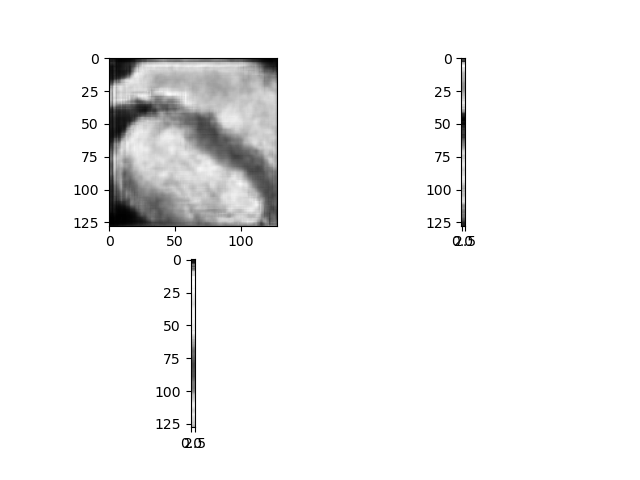
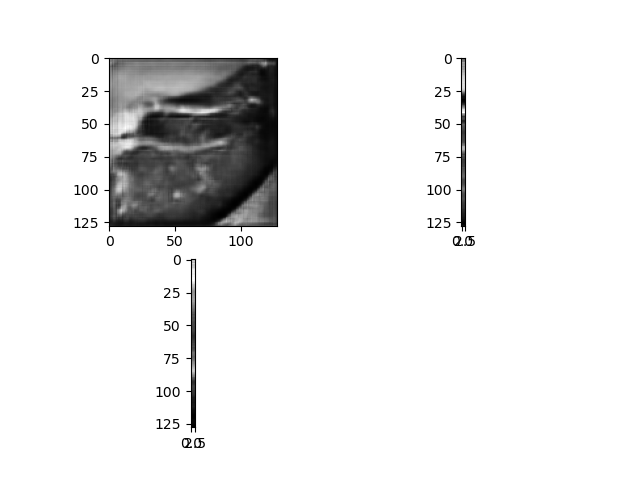
Add option for segmentor to learm from syn data- Bug Fixes

diff --git a/models/cycle_gan_model.py b/models/cycle_gan_model.py
@@ -226,7 +226,7 @@ class CycleGANModel(BaseModel):
         # Syntheric loss
         if lambda_seg_from_syn > 0:
             self.loss_S_SYN_A = self.seg_loss(self.netS_A(self.netG_B(self.real_B)), self.ground_truth_seg_B) * lambda_seg_from_syn
-            self.loss_S_SYN_B = self.seg_loss(self.netS_B(self.netG_B(self.real_B)), self.ground_truth_seg_A) * lambda_seg_from_syn
+            self.loss_S_SYN_B = self.seg_loss(self.netS_B(self.netG_A(self.real_A) ), self.ground_truth_seg_A) * lambda_seg_from_syn
         else:
             self.loss_S_SYN_A = 0
             self.loss_S_SYN_B = 0
